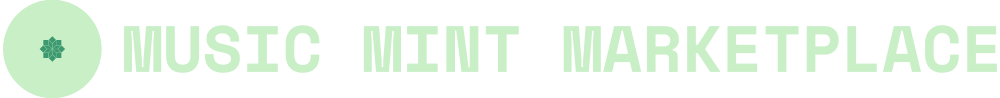
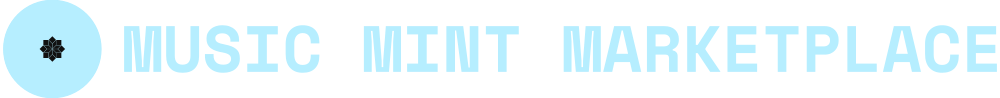
trying to get a profile page setup in auth

Changed region(s): [[0.0, 0.0, 0.527, 1.0], [0.558, 0.2449, 1.0, 0.7347]]

diff --git a/musicmint/styles/AuthPage.styles/loginAndReg.module.css b/musicmint/styles/AuthPage.styles/loginAndReg.module.css
@@ -6,7 +6,7 @@
     justify-content: center;
     align-items: center;
     /* background-color: #6bc85d; */
-    background: linear-gradient(45deg, #a6de9a, #086515);
+    background: black;
     /* background: linear-gradient(to bottom, #6AD459, #29BA87); */
     color: #164604;
   }
@@ -15,85 +15,110 @@
       font-family: 'Space Mono', 'Lexend', sans-serif;
       font-size: 2rem;
       font-weight: bold;
-      margin-bottom: 2rem;
+      margin-bottom: 1rem;
       color: #c9efc7;
   }
-  
+
 
     .formGroup {
     display: flex;
     flex-direction: column;
     margin-bottom: 0.3rem;
-    width: clamp(10rem, 30%, 20rem);
+    width: clamp(10rem, 30%, 40rem);
+    
   }
-  
+/*   
   .label {
     font-family: 'Space Mono', 'Lexend', sans-serif;
     font-size: 1.1rem;
     font-weight: bold;
     margin-bottom: 0.5rem;
-    color: #c9efc7;
-  }
+    color: #b6eeff;
+  } */
   
   .input {
     all: unset;
-    background-color: #3B3B3B;
-    color: #fff;
+    background-color: rgba(255, 255, 255);
+    /* background-color: #3B3B3B; */
+    color: rgb(0, 0, 0);
     border: none;
-    border-radius: 0.5rem;
+    border-radius: 30px;
     padding: 0.75rem;
     font-size: 1rem;
     margin-bottom: 1rem;
+    font-family: 'Lexend', sans-serif;
   }
   
   .input::placeholder {
-    font-family: 'Space Mono', 'Lexend', sans-serif;
+    font-family: 'Lexend', sans-serif;
+    /* color:#b6eeff; */
   }
 
   .button {
-    width: 100%;
-    font-family: 'Space Mono', 'Lexend', sans-serif;
-    background-color: #c9efc7;
-    color: #164604;
-    font-size: 0.9rem;
-    display: flex;
-    justify-content: center;
-    align-items: center;
-    font-weight: bold;
+    font-family: 'Lexend', sans-serif; 
+    /* background: linear-gradient(to bottom right, #29BA87, #6AD459); */
+    background: linear-gradient(to bottom right, #42d6ff, #0166cc);
+    
+    border-radius: 28px;
+    color: white;
+    font-size: 1rem;
+    padding: 15px 25px;
+    text-align: center;
+    text-decoration: none;
+    display: inline-block;
+    transition-duration: 0.4s;
     border: none;
-    border-radius: 0.5rem;
-    padding: 0.75rem 1.5rem;
     cursor: pointer;
-    transition: background-color 0.3s ease-in-out;
+    box-shadow: 0px 8px 15px rgba(0, 0, 0, 0.1);
+
   }
   
   .button:hover {
-    background-color: #d5ffd3;
-    font-size: 0.95rem;
+    background: linear-gradient(to bottom right, #0166cc, #42d6ff);
+    box-shadow: 0px 15px 20px rgba(0, 0, 0, 0.2);
+    font-size: 1.05rem; 
   }
   
-  .noCredentials, .artistCheckbox {
+  .noCredentials{
     font-family: 'Space Mono', 'Lexend', sans-serif;
     margin-top: 1rem;
-    width: clamp(10rem, 30%, 20rem);
+    width: clamp(10rem, 50%, 40rem);
     font-size: 0.9rem;
-    color: #c9efc7;
+    color: #b6eeff;
+    display: flex;
+    flex-direction: column;
+    justify-content: center;
+    align-items: center;
+    text-align: center;
+    margin-bottom: 1rem;
+  }
+
+  .artistCheckbox {
+    font-family: 'Space Mono', 'Lexend', sans-serif;
+    /* margin-top: rem; */
+    width: clamp(10rem, 50%, 40rem);
+    font-size: 0.9rem;
+    color: #b6eeff;
     display: flex;
     flex-direction: row;
-    justify-content: space-between;
+    justify-content: center;
+    align-items: center;
+    text-align: center;
+    margin-bottom: 1rem;
   }
 
   .noCredentials div{
     cursor: pointer;
+    align-items: center;
   }
 
-.artistCheckbox {
+/* .artistCheckbox {
   height: inherit;
   margin-top: 0;
   margin-bottom: 1rem;
   justify-content: flex-start;
   align-items: center;
-}
+} */
 
 .artistCheckbox input[type="checkbox"] {
   margin-right: 0.4rem;
@@ -101,7 +126,7 @@
   aspect-ratio: 1;
 }
 
-  .registerLink {
+  /* .registerLink {
   font-family: 'Space Mono', 'Lexend', sans-serif;
   color: #c9efc7;
   font-size: 1.1rem;
@@ -112,6 +137,6 @@
   
   .registerLink:hover {
   color: #d5ffd3;
-  }
+  } */
    /* [AI-generated, ChatGpt]*/
   

diff --git a/musicmint/pages/auth.tsx b/musicmint/pages/auth.tsx
@@ -10,9 +10,12 @@ import MarketplaceAbi from "./contractsData/Marketplace.json"
 import MarketplaceAddress from './contractsData/Marketplace-address.json'
 import NFTAbi from './contractsData/NFT.json'
 import NFTAddress from './contractsData/NFT-address.json'
+import Link from 'next/link'
+import CreateProfile from '../components/Auth/createProfile'
 
 const AuthPage = () => {
     let [onLogin, setOnLogin] = useState(true)
+    let [openTab, setOpenTab] = useState(0);
     let { isAuthorized } = useContext(AuthContext)
 
       //let's set up everything needed for blockchain upon boot up
@@ -23,8 +26,18 @@ const AuthPage = () => {
   const [marketplace, setMarketplace] = useState({})
 
     const switchTab = () => {
-        setOnLogin(!onLogin)
+        setOnLogin(!onLogin);
+        setOpenTab(0);
     }
+
+    const handleRegisterClick = () => {
+      setOpenTab(1); // set openTab to create profile when clicking on register
+    };
+  
+
+    // const handleTabChange = (tabName : string) => {
+    //     setOnRegister(!onRegister)
+    // }
 
 
     useEffect(() => {
@@ -74,7 +87,29 @@ const web3Handler = async () => {
     return (
         <>
         <NavBar nft={nft} marketplace={marketplace}/>
-        {onLogin ? <Login  marketplace={marketplace} nft={nft} web3Handler={web3Handler} account={account} switchTab={switchTab}></Login> : <Registraion  marketplace={marketplace} nft={nft} web3Handler={web3Handler} account={account} switchTab={switchTab}></Registraion>}
+        {onLogin ? ( 
+          <Login  
+            marketplace={marketplace} 
+            nft={nft} 
+            web3Handler={web3Handler} 
+            account={account} 
+            switchTab={switchTab}/> 
+        ) : openTab === 0 ? (
+          <Registraion  
+            marketplace={marketplace} 
+            nft={nft} 
+            web3Handler={web3Handler} 
+            account={account} 
+            switchTab={switchTab}/>
+        ) : (
+          <CreateProfile 
+          marketplace={marketplace} 
+          nft={nft} 
+          web3Handler={web3Handler} 
+          account={account} 
+          switchTab={switchTab}/>
+        )
+        }
         </>
     )
 }

diff --git a/musicmint/components/Auth/login.tsx b/musicmint/components/Auth/login.tsx
@@ -3,6 +3,8 @@ import AuthContext from '../../src/context/auth'
 import styles from '../../styles/AuthPage.styles/loginAndReg.module.css'
 import Wallet from '../../components/Auth/connectWallet'
 import ConnectSpotify from '../../components/Auth/connectSpotify';
+import Image from 'next/image'
+import logo from '../../music-mint-marketplace.png'
 
 const Login = (props) => {
     const { loginUser } = useContext(AuthContext);
@@ -27,9 +29,8 @@ const Login = (props) => {
 
     return (
         <div className={styles.container}>
-            <div className={styles.label}>MusicMint</div>
             
-            <div className={styles.header}>MusicMint</div>
+            <div className={styles.header}><Image src={logo} alt="logo" width={400} height={40}/></div>
                 <div className={styles.formGroup}>
                     <input type="email" id="email" name="email" className={styles.input} onChange={(e) => setEmail(e.target.value)} placeholder="Enter your E-mail"/>
                 </div>
@@ -37,12 +38,12 @@ const Login = (props) => {
                     <input type="password" id="password" name="password" className={styles.input} onChange={(e) => setPassword(e.target.value)}  placeholder="Enter your password"/>
                 </div>
                 <div className={styles.formGroup}>
-                    <div className={styles.button} onClick={() => loginUser(email, password)}>Log in</div>
+                    <div className={styles.button} onClick={() => loginUser(email, password)}>Log In</div>
                 </div>
                 <div className={styles.noCredentials}>
                     <div>Forgot password?</div>
-                    <div onClick={props.switchTab}>Register</div>
-                </div>                
+                    <div onClick={props.switchTab}>Don't have an account? Register here</div>
+                </div>
                 <div>
                     <Wallet web3Handler={props.web3Handler} account={props.account}></Wallet>
                 </div>

diff --git a/musicmint/components/Auth/createProfile.tsx b/musicmint/components/Auth/createProfile.tsx
@@ -2,6 +2,8 @@ import React, { useContext, useEffect, useState } from 'react';
 import AuthContext from '../../src/context/auth'
 import styles from '../../styles/AuthPage.styles/loginAndReg.module.css'
 import Wallet from '../../components/Auth/connectWallet'
+import Image from 'next/image'
+import logo from '../../music-mint-marketplace.png'
 
 const Login = (props) => {
     const { loginUser } = useContext(AuthContext);
@@ -26,25 +28,7 @@ const Login = (props) => {
 
     return (
         <div className={styles.container}>
-            <div className={styles.label}>MusicMint</div>
-            
-            <div className={styles.header}>MusicMint</div>
-                <div className={styles.formGroup}>
-                    <input type="email" id="email" name="email" className={styles.input} onChange={(e) => setEmail(e.target.value)} placeholder="Enter your E-mail"/>
-                </div>
-                <div className={styles.formGroup}>
-                    <input type="password" id="password" name="password" className={styles.input} onChange={(e) => setPassword(e.target.value)}  placeholder="Enter your password"/>
-                </div>
-                <div className={styles.formGroup}>
-                    <div className={styles.button} onClick={() => loginUser(email, password)}>Log in</div>
-                </div>
-                <div className={styles.noCredentials}>
-                    <div>Forgot password?</div>
-                    <div onClick={props.switchTab}>Register</div>
-                </div>
-                <div>
-                    <Wallet web3Handler={props.web3Handler} account={props.account}></Wallet>
-                </div>
+            <Image src={logo} alt="logo" width={400} height={40}/>
         </div>
     );
 };

diff --git a/musicmint/components/Auth/registration.tsx b/musicmint/components/Auth/registration.tsx
@@ -3,6 +3,8 @@ import AuthContext from '../../src/context/auth'
 import styles from '../../styles/AuthPage.styles/loginAndReg.module.css'
 import Link from "next/link"
 import { InputType } from 'zlib'
+import Image from 'next/image'
+import logo from '../../music-mint-marketplace.png'
 
 import Wallet from '../../components/Auth/connectWallet'
 
@@ -27,7 +29,7 @@ const Registraion = (props) => {
 
     return (
          <div className={styles.container}>
-         <div className={styles.header}>MusicMint</div>
+         <div className={styles.header}><Image src={logo} alt="logo" width={400} height={40}/></div>
              <div>
                  
                  
@@ -49,7 +51,7 @@ const Registraion = (props) => {
                  <div className={styles.button} onClick={() => registerUser(fullName, email, password)}>Register</div>
              </div>
              <div className={styles.noCredentials}>
-                 <div onClick={props.switchTab}>Have an account? Log in</div>
+                 <div onClick={props.switchTab}>Already have an account? Log in</div>
              </div>
              <Wallet web3Handler={props.web3Handler} account={props.account}></Wallet>
      </div>
